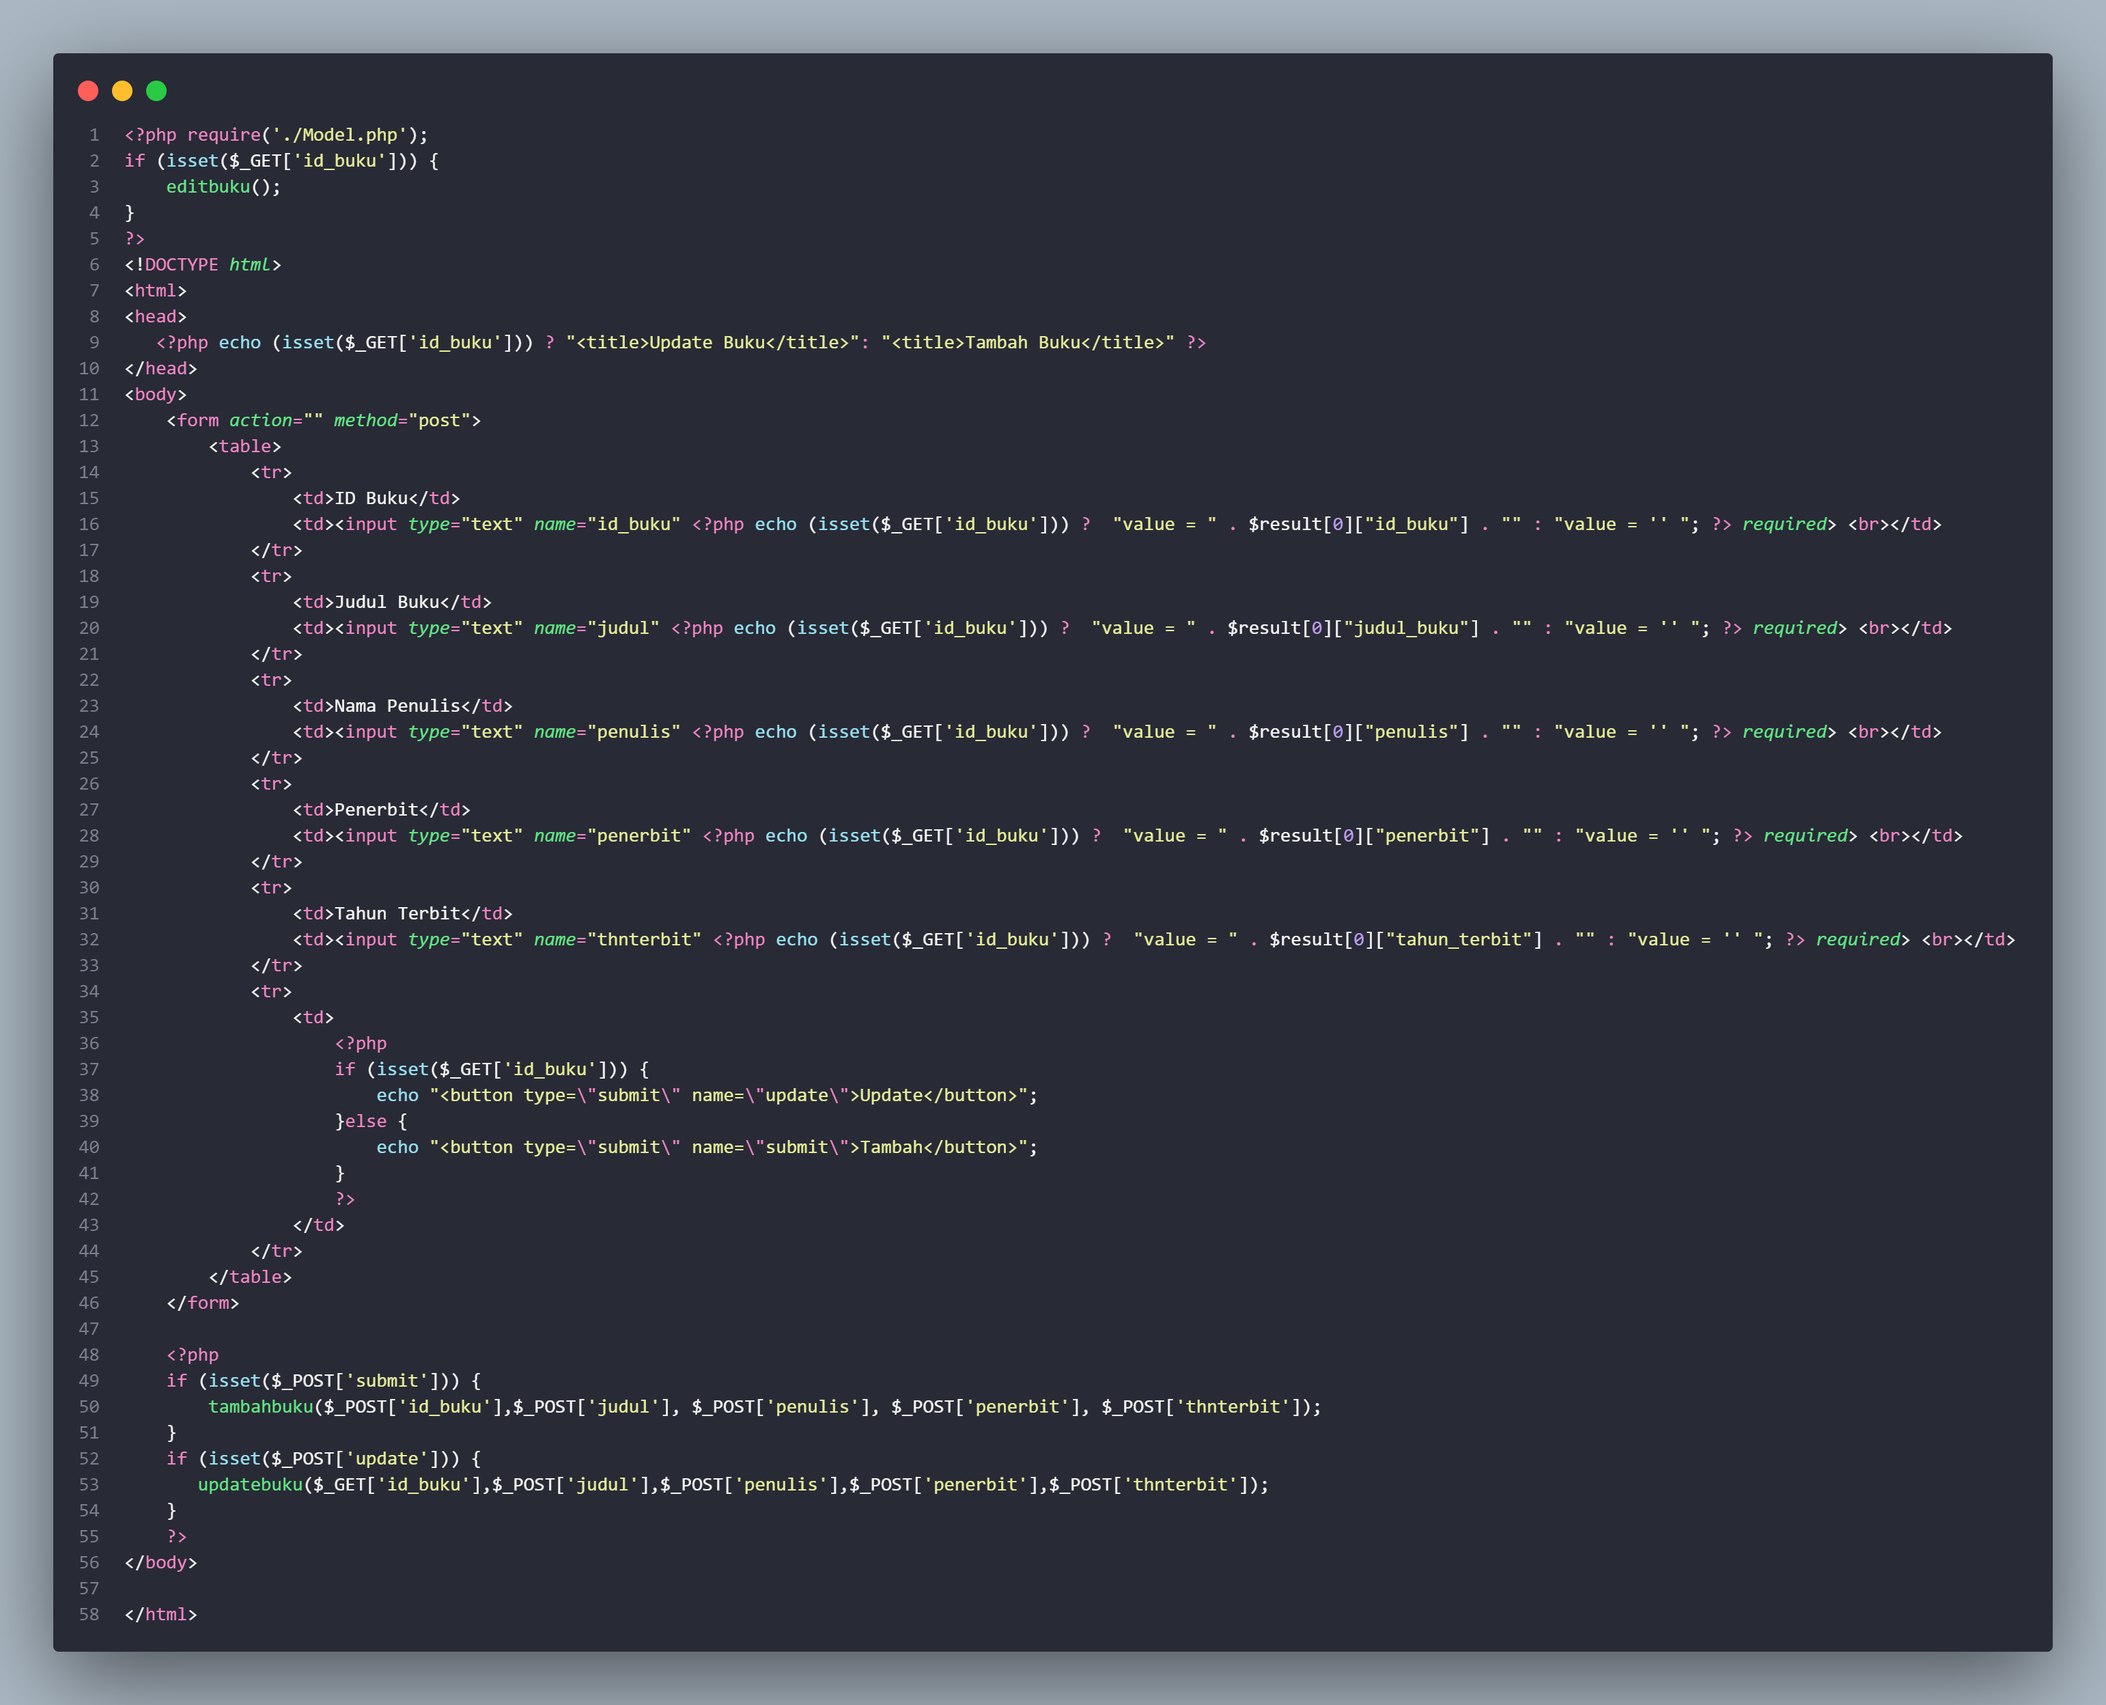
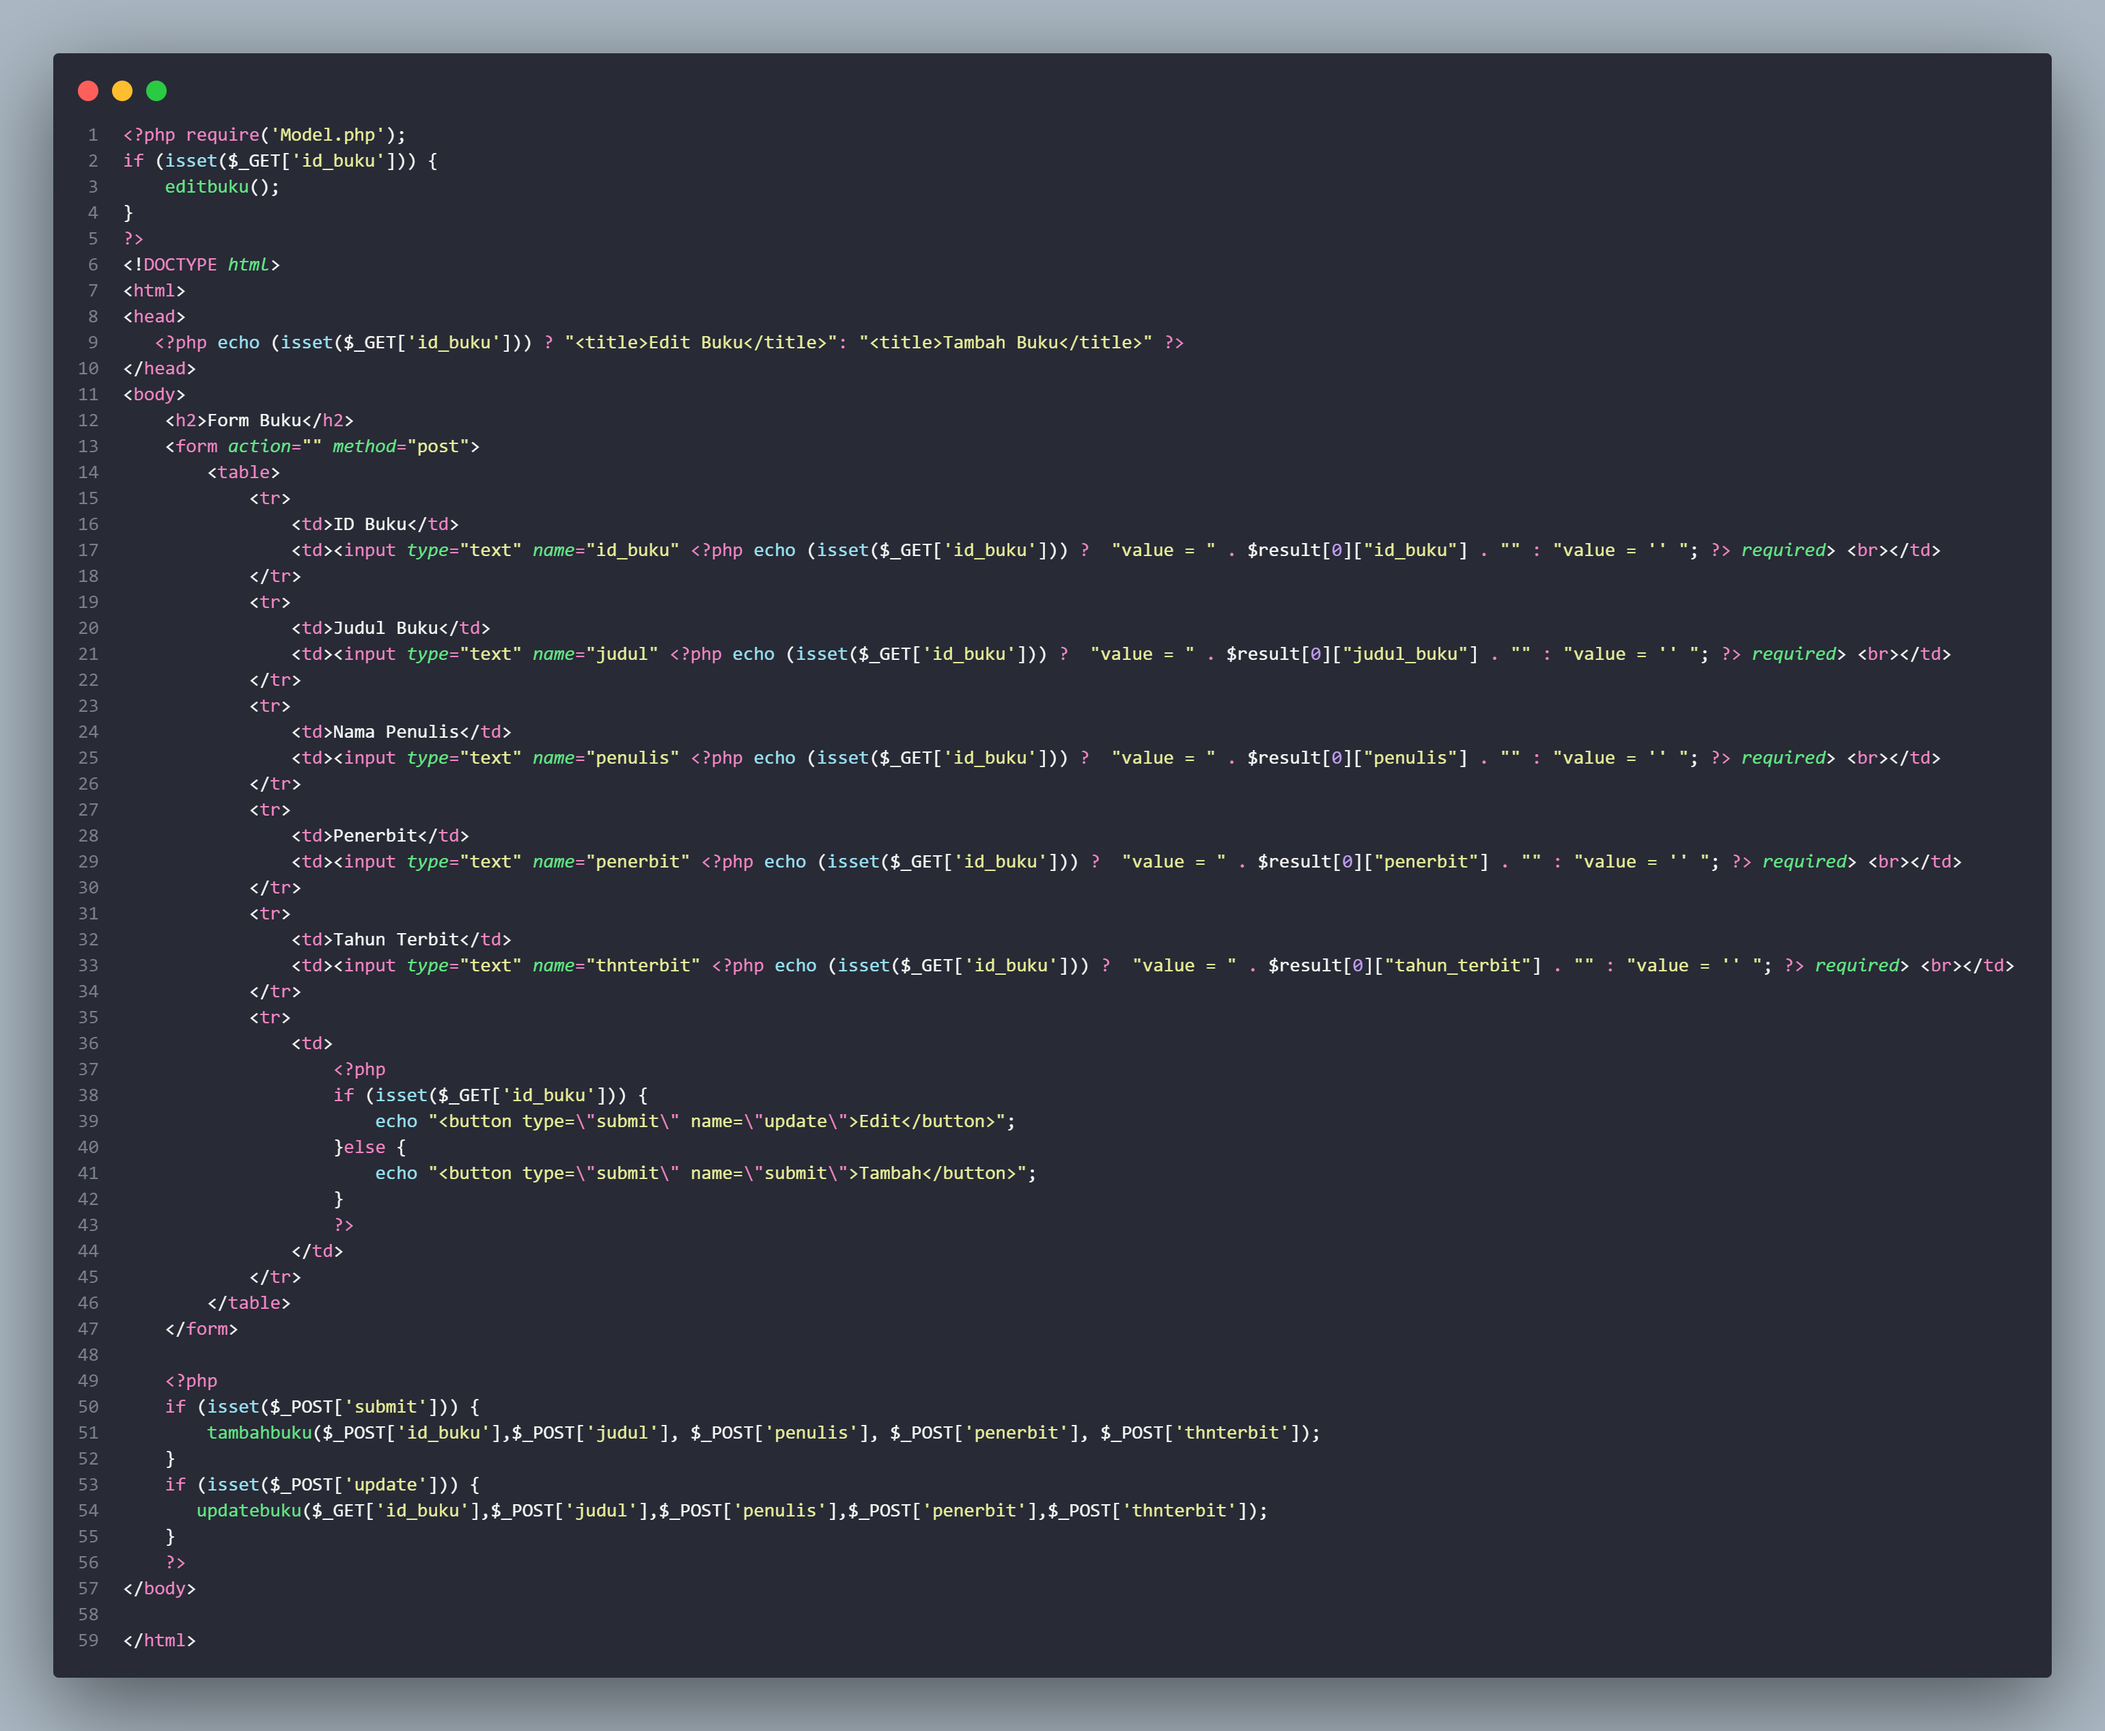
edit style v3

diff --git a/PRAK501/formpeminjaman.php b/PRAK501/formpeminjaman.php
@@ -7,7 +7,7 @@ if (isset($_GET['id_peminjaman'])) {
 <!DOCTYPE html>
 <html>
 <head>
-   <?php echo (isset($_GET['id_peminjaman'])) ? "<title>Update Data Peminjaman</title>": "<title>Tambah Data Peminjaman</title>" ?> 
+   <?php echo (isset($_GET['id_peminjaman'])) ? "<title>Edit Data Peminjaman</title>": "<title>Tambah Data Peminjaman</title>" ?> 
 </head>
 <body>
     <h2>Form Peminjaman</h2>
@@ -28,7 +28,7 @@ if (isset($_GET['id_peminjaman'])) {
                 <td>
                     <?php 
                     if (isset($_GET['id_peminjaman'])) {
-                        echo "<button type=\"submit\" name=\"update\">Update</button>";
+                        echo "<button type=\"submit\" name=\"update\">Edit</button>";
                     }else {
                         echo "<button type=\"submit\" name=\"submit\">Tambah</button>";    
                     }

diff --git a/PRAK501/formmember.php b/PRAK501/formmember.php
@@ -6,7 +6,7 @@ if (isset($_GET['id_member'])) {
 <!DOCTYPE html>
 <html>
 <head>
-   <?php echo (isset($_GET['id_member'])) ? "<title>Update Member</title>": "<title>Tambah Member</title>" ?> 
+   <?php echo (isset($_GET['id_member'])) ? "<title>Edit Member</title>": "<title>Tambah Member</title>" ?> 
 </head>
 <body>
     <h2>Form Member</h2>
@@ -40,7 +40,7 @@ if (isset($_GET['id_member'])) {
                 <td>
                     <?php 
                     if (isset($_GET['id_member'])) {
-                        echo "<button type=\"submit\" name=\"update\">Update</button>";
+                        echo "<button type=\"submit\" name=\"update\">Edit</button>";
                     }else {
                         echo "<button type=\"submit\" name=\"submit\">Tambah</button>";    
                     }

diff --git a/PRAK501/formbuku.php b/PRAK501/formbuku.php
@@ -6,7 +6,7 @@ if (isset($_GET['id_buku'])) {
 <!DOCTYPE html>
 <html>
 <head>
-   <?php echo (isset($_GET['id_buku'])) ? "<title>Update Buku</title>": "<title>Tambah Buku</title>" ?> 
+   <?php echo (isset($_GET['id_buku'])) ? "<title>Edit Buku</title>": "<title>Tambah Buku</title>" ?> 
 </head>
 <body>
     <h2>Form Buku</h2>
@@ -36,7 +36,7 @@ if (isset($_GET['id_buku'])) {
                 <td>
                     <?php 
                     if (isset($_GET['id_buku'])) {
-                        echo "<button type=\"submit\" name=\"update\">Update</button>";
+                        echo "<button type=\"submit\" name=\"update\">Edit</button>";
                     }else {
                         echo "<button type=\"submit\" name=\"submit\">Tambah</button>";   
                     }
